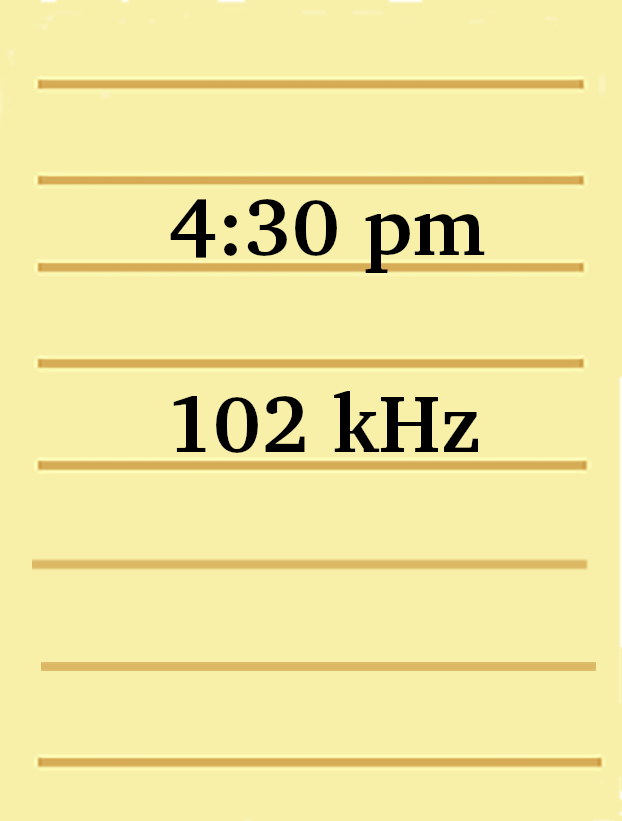
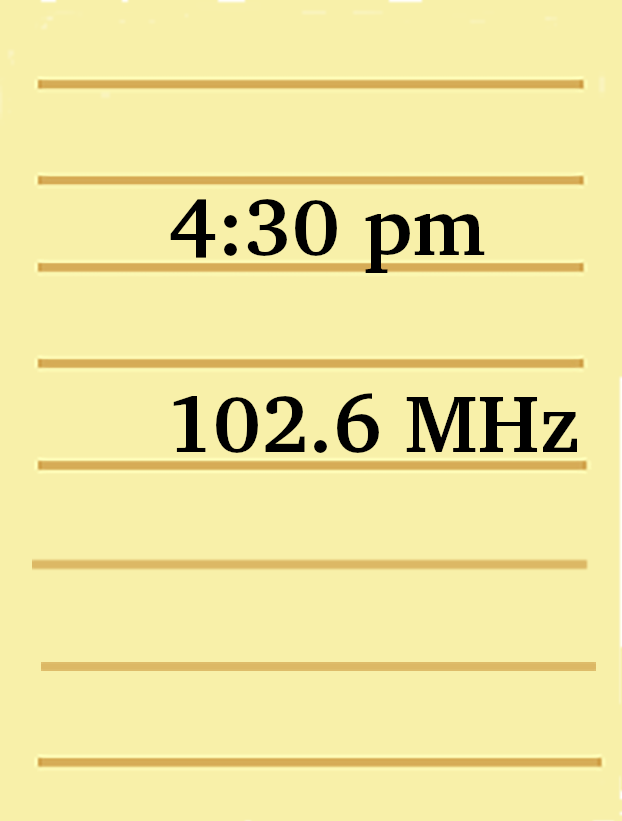
Arrumando ponteiros e adicionando mensagens.

Changed region(s): [[0.4887, 0.4568, 0.9469, 0.5481]]

diff --git a/Assets/Script/MapController.cs b/Assets/Script/MapController.cs
@@ -22,7 +22,7 @@ public class MapController : MonoBehaviour {
 	void Update () {
 		if(selectedTarget==null && !secondMsg){
 			if(ClockController.instance.hour==5 && ClockController.instance.minute>=30){
-				morse.ReceiveMessage("marque o lugar no mapa!!!");
+				morse.ReceiveMessage("Agente, ainda não recemos nenhuma informação. Precisamos da localização com urgência!");
 				secondMsg = true;
 			}
 		}
@@ -35,9 +35,9 @@ public class MapController : MonoBehaviour {
 		}
 		selectedTarget = target;
 		if(target.x==targetX && target.y==targetY){
-			morse.SendMsg("Acertou!");
+			morse.SendMsg("Acreditamos que esse seja a possível localização de uma célula terrorista. Bom trabalho. Aguarde novas instruções.");
 		} else {
-			morse.SendMsg("Todo mundo morreu por culpa sua...");
+			morse.SendMsg("Os agentes enviados a campo não encontraram nada no local informado. Uma nova falha não será tolerada. Fique atento, agente. Você está dispensado por hoje.");
 		}
 	}
 

diff --git a/Assets/Script/MorseReceiverController.cs b/Assets/Script/MorseReceiverController.cs
@@ -28,7 +28,7 @@ public class MorseReceiverController : MonoBehaviour {
 		notepadR = notepad.GetComponent<SpriteRenderer>();
 		messageStart = message.transform.position.x;
 		sendStartPos = morseSenderButton.transform.position;
-		ReceiveMessage("Escute a rádio de música às 4:30 pm", true);
+		ReceiveMessage("Agente, nossos espiões descobriram que uma mensagem oculta será transmitida às 16:30 hrs em pleno programa de músicas na rádio local, frequência 102.6 MHz", true);
 		
 	}
 	
@@ -37,7 +37,7 @@ public class MorseReceiverController : MonoBehaviour {
 		if(receiving){
 			//Debug.Log("receive":+receiveTimer);
 			receiveTimer -= Time.deltaTime;
-			message.transform.position -= new Vector3(Time.deltaTime,0,0);
+			message.transform.position -= new Vector3(Time.deltaTime*1.4f,0,0);
 			if(receiveTimer<=0f){
 				receiving = false;
 				receiveTimer = 5f;
